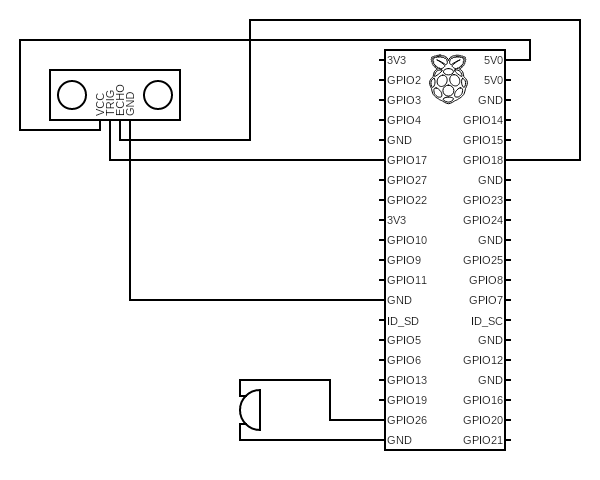
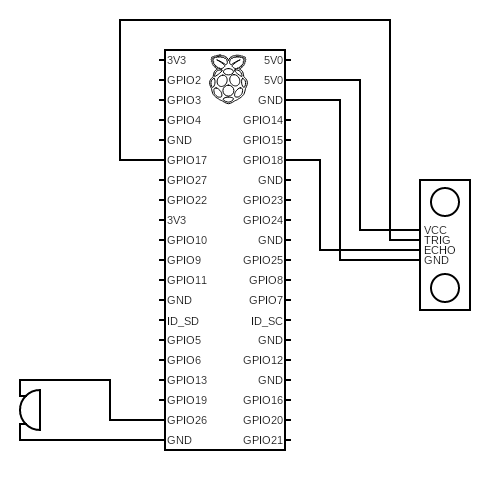
Multiple time GPIO initialize error fixed

Changed region(s): [[0.03, 0.0312, 0.99, 0.9375]]

diff --git a/RPi_Action.py b/RPi_Action.py
@@ -2,12 +2,17 @@ from gpiozero import Buzzer, DistanceSensor
 from time import sleep
 
 
+# GPIO26 for beep
+buzzer = Buzzer(26)
+# GPIO17 and GPIO18 for trigger and echo
+ultra_sonic = DistanceSensor(echo=18, trigger=17, max_distance=1.4, queue_len=1)
+
 
 class RPi_Action:
 	def __init__(self):
 		self.beep = Beeper()
 		self.door = Door()
-		self.check_range = DistanceMeasure(door_range=1.4)
+		self.check_range = DistanceMeasure()
 
 	def unlockTheDoor(self):
 		self.beep.unlock()
@@ -29,7 +34,10 @@ class Door:
 
 class Beeper:
 	def __init__(self):
-		self.bz = Buzzer(26)		# GPIO26 for beep
+		self.bz = buzzer
+
+	def single(self):
+		self.bz.beep(on_time=0.2, n=1, background=True)
 
 	def lock(self):
 		self.bz.beep(on_time=0.1, n=1, background=True)
@@ -44,10 +52,10 @@ class Beeper:
 
 
 class DistanceMeasure:
-	def __init__(self, door_range=1.5):		# GPIO17 and GPIO18 for trigger and echo
-		self.sensor = DistanceSensor(echo=18, trigger=17, max_distance=door_range, queue_len=1)
+	def __init__(self):
+		self.sensor = ultra_sonic
 
-	def start():
+	def start(self):
 		return self.sensor.wait_for_in_range()
 
 

diff --git a/main.py b/main.py
@@ -119,6 +119,7 @@ class Main:
 	def __call__(self):
 		while True:
 			if self.rpi.check_range.start():
+				self.rpi.single()
 				self.capture()
 
 
